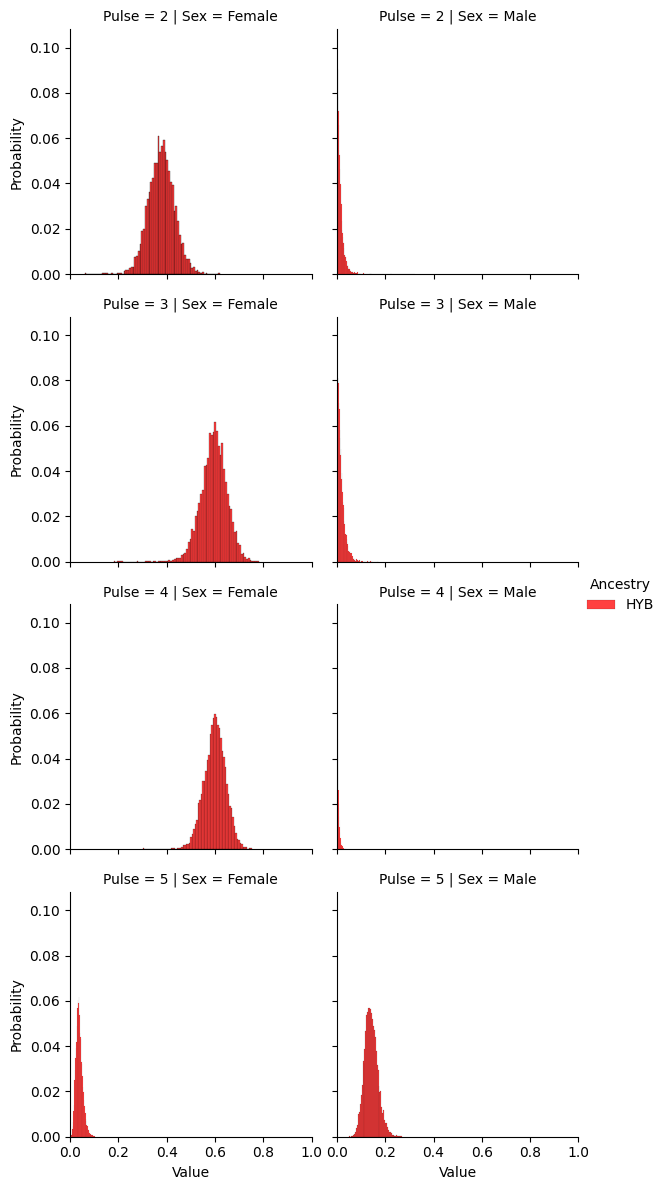
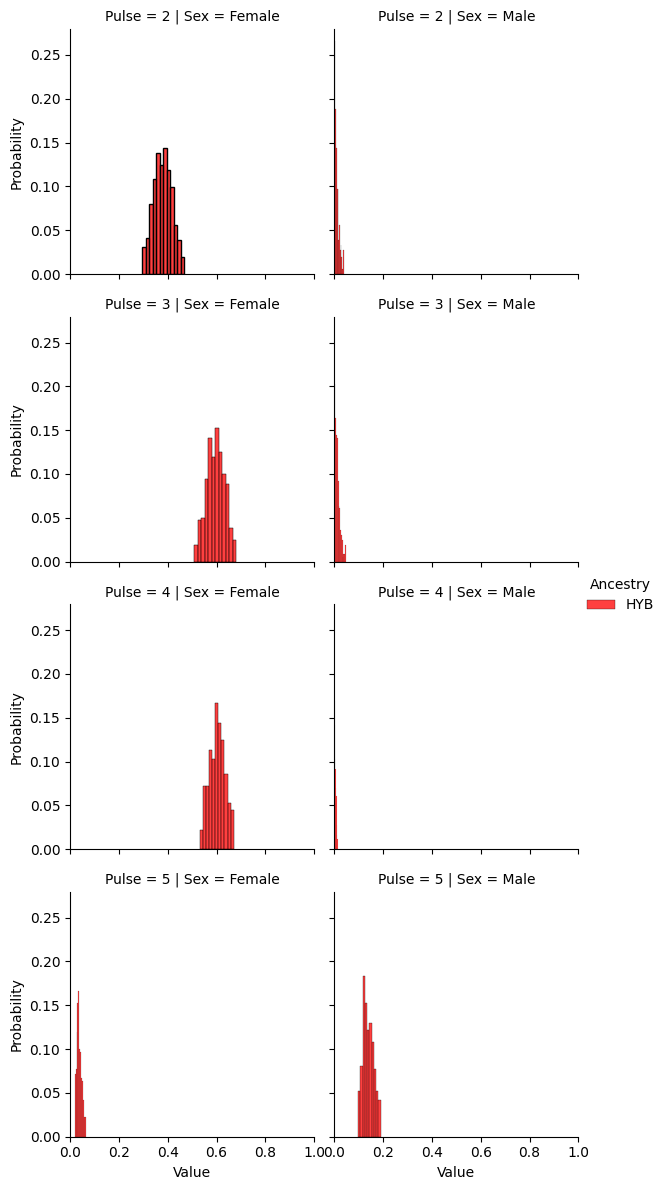
Added function to generate point graphs by ancestry.

diff --git a/script.py b/script.py
@@ -176,6 +176,66 @@ def plot_points__with_errorbars(df, ancestries, percentage, lines, savefile):
     
     figure.savefig(savefile)
 
+def plot_points__by_ancestry(df, ancestries, percentage, lines, savefile):
+    sexes = ("Female", "Male")
+    colours = list()
+
+    for anc in range(0,len(ANCESTRY_NAMES)):
+        if ANCESTRY_NAMES[anc] in ancestries:
+            colours.append(ANCESTRY_COLOURS[anc])
+
+    figure, axis = plt.subplots(1, NUMBER_ANCESTRY)
+    figure.set_figwidth(8 + 4*len(ancestries))
+    figure.set_figheight(4)
+    
+    #setting ticks and their lables
+    ticks = list()
+    labels = list()
+    
+    for pulse in range(1,(NUMBER_PULSES+1)):
+        ticks.append((1/(NUMBER_PULSES+1))*(pulse))
+        labels.append("Pulse {}".format(pulse))
+
+    df_plot = df
+    for anc in range(0,len(ancestries)):
+        for pulse in range(1,(NUMBER_PULSES+1)):
+            for sex in range(0,2):
+                #selecting only the values from this pulse, sex and ancestry
+                df_temp = df_plot[(df_plot["Pulse"] == pulse) & (df_plot["Sex"] == sexes[sex]) & (df_plot["Ancestry"] == ancestries[anc])]
+                
+                #calculating values
+                min_temp = df_temp["Value"].min()
+                max_temp = df_temp["Value"].max()
+                mean_temp = df_temp["Value"].mean()
+
+                #darkening the colour if gender is male
+                colour = [0.0, 0.0, 0.0, 1.0]
+                for i in range(0, len(colour)-1):
+                    colour[i] = max(0, (colours[anc][i] - 0.25*sex))
+
+                #plotting point
+                buffer = 0.25 - 0.04 * NUMBER_PULSES
+                point_x = (-buffer/2 + ((1/(NUMBER_PULSES+1))*(pulse))) + buffer*sex
+                axis[anc].plot(point_x, mean_temp, marker='o', markersize=6, color=colour)
+
+                #plotting min and max lines
+                lines_x = [point_x - (0.015 * 4/(len(ancestries))), point_x + (0.015 * 4/(len(ancestries)))]
+                axis[anc].plot(lines_x, [min_temp, min_temp], linewidth=1.2, color=colour, alpha=1)
+                axis[anc].plot(lines_x, [max_temp, max_temp], linewidth=1.2, color=colour, alpha=1)
+                
+                #connecting line
+                axis[anc].plot([point_x, point_x], [min_temp, max_temp], linewidth=1, linestyle='--', color=colour, alpha=0.9)
+
+        #setting axis limits, ticks and title
+        axis[anc].set_xlim(0, 1)
+        axis[anc].set_ylim(0, 1)
+        axis[anc].set_xticks(ticks, labels)
+        axis[anc].set_title(ancestries[anc])
+
+    figure.tight_layout(pad=2)
+    
+    figure.savefig(savefile)
+
 #filters data by the Highest Density Region, informed by the percentage
 #90% region -> percentage = 90
 def filter(percentage, df_unfiltered):
@@ -336,6 +396,7 @@ ancestries = ["EUR", "AFR", "NAT", "HYB"]
 plot_histograms(df, ancestries, "layer", 90, False, "./NO_HDR/Standard/histogram.png")
 plot_lines(df, ancestries, 90, False, "./NO_HDR/Standard/line_graph.png")
 plot_points__with_errorbars(df, ancestries, 90, False, "./NO_HDR/Standard/point_graph.png")
+plot_points__by_ancestry(df, ancestries, 90, False, "./NO_HDR/Standard/point_graph_ancestry.png")
 
 ancestries = ["EUR", "AFR", "NAT"]
 plot_histograms(df, ancestries, "layer", 90, False, "./NO_HDR/Hybrid_Separated/no_hybrid_histogram.png")
@@ -349,22 +410,25 @@ plot_points__with_errorbars(df, ancestries, 90, False, "./NO_HDR/Hybrid_Separate
 
 write_stats(df, "./stats_NO_HDR.csv")
 
-#filtering for only 90% of density
+# #filtering for only 90% of density
 df_filtered = filter(90, df)
 
 ancestries = ["EUR", "AFR", "NAT", "HYB"]
-plot_histograms(df, ancestries, "layer", 90, False, "./HDR/Standard/histogram.png")
-plot_lines(df, ancestries, 90, False, "./HDR/Standard/line_graph.png")
-plot_points__with_errorbars(df, ancestries, 90, False, "./HDR/Standard/point_graph.png")
+plot_histograms(df_filtered, ancestries, "layer", 90, False, "./HDR/Standard/histogram.png")
+plot_lines(df_filtered, ancestries, 90, False, "./HDR/Standard/line_graph.png")
+plot_points__with_errorbars(df_filtered, ancestries, 90, False, "./HDR/Standard/point_graph.png")
+plot_points__by_ancestry(df_filtered, ancestries, 90, False, "./HDR/Standard/point_graph_ancestry.png")
 
 ancestries = ["EUR", "AFR", "NAT"]
-plot_histograms(df, ancestries, "layer", 90, False, "./HDR/Hybrid_Separated/no_hybrid_histogram.png")
-plot_lines(df, ancestries, 90, False, "./HDR/Hybrid_Separated/no_hybrid_line_graph.png")
-plot_points__with_errorbars(df, ancestries, 90, False, "./NO_HDR/Hybrid_Separated/no_hybrid_point_graph.png")
+plot_histograms(df_filtered, ancestries, "layer", 90, False, "./HDR/Hybrid_Separated/no_hybrid_histogram.png")
+plot_lines(df_filtered, ancestries, 90, False, "./HDR/Hybrid_Separated/no_hybrid_line_graph.png")
+plot_points__with_errorbars(df_filtered, ancestries, 90, False, "./HDR/Hybrid_Separated/no_hybrid_point_graph.png")
+plot_points__by_ancestry(df_filtered, ancestries, 90, False, "./HDR/Hybrid_Separated/no_hybrid_point_graph_ancestry.png")
 
 ancestries = ["HYB",]
-plot_histograms(df, ancestries, "layer", 90, False, "./HDR/Hybrid_Separated/only_hybrid_histogram.png")
-plot_lines(df, ancestries, 90, False, "./NO_HDR/Hybrid_Separated/only_hybrid_line_graph.png")
-plot_points__with_errorbars(df, ancestries, 90, False, "./HDR/Hybrid_Separated/only_hybrid_point_graph.png")
+plot_histograms(df_filtered, ancestries, "layer", 90, False, "./HDR/Hybrid_Separated/only_hybrid_histogram.png")
+plot_lines(df_filtered, ancestries, 90, False, "./NO_HDR/Hybrid_Separated/only_hybrid_line_graph.png")
+plot_points__with_errorbars(df_filtered, ancestries, 90, False, "./HDR/Hybrid_Separated/only_hybrid_point_graph.png")
+plot_points__by_ancestry(df_filtered, ancestries, 90, False, "./HDR/Standard/only_hybrid_point_graph_ancestry.png")
 
 write_stats(df_filtered, "./stats_HDR.csv")
